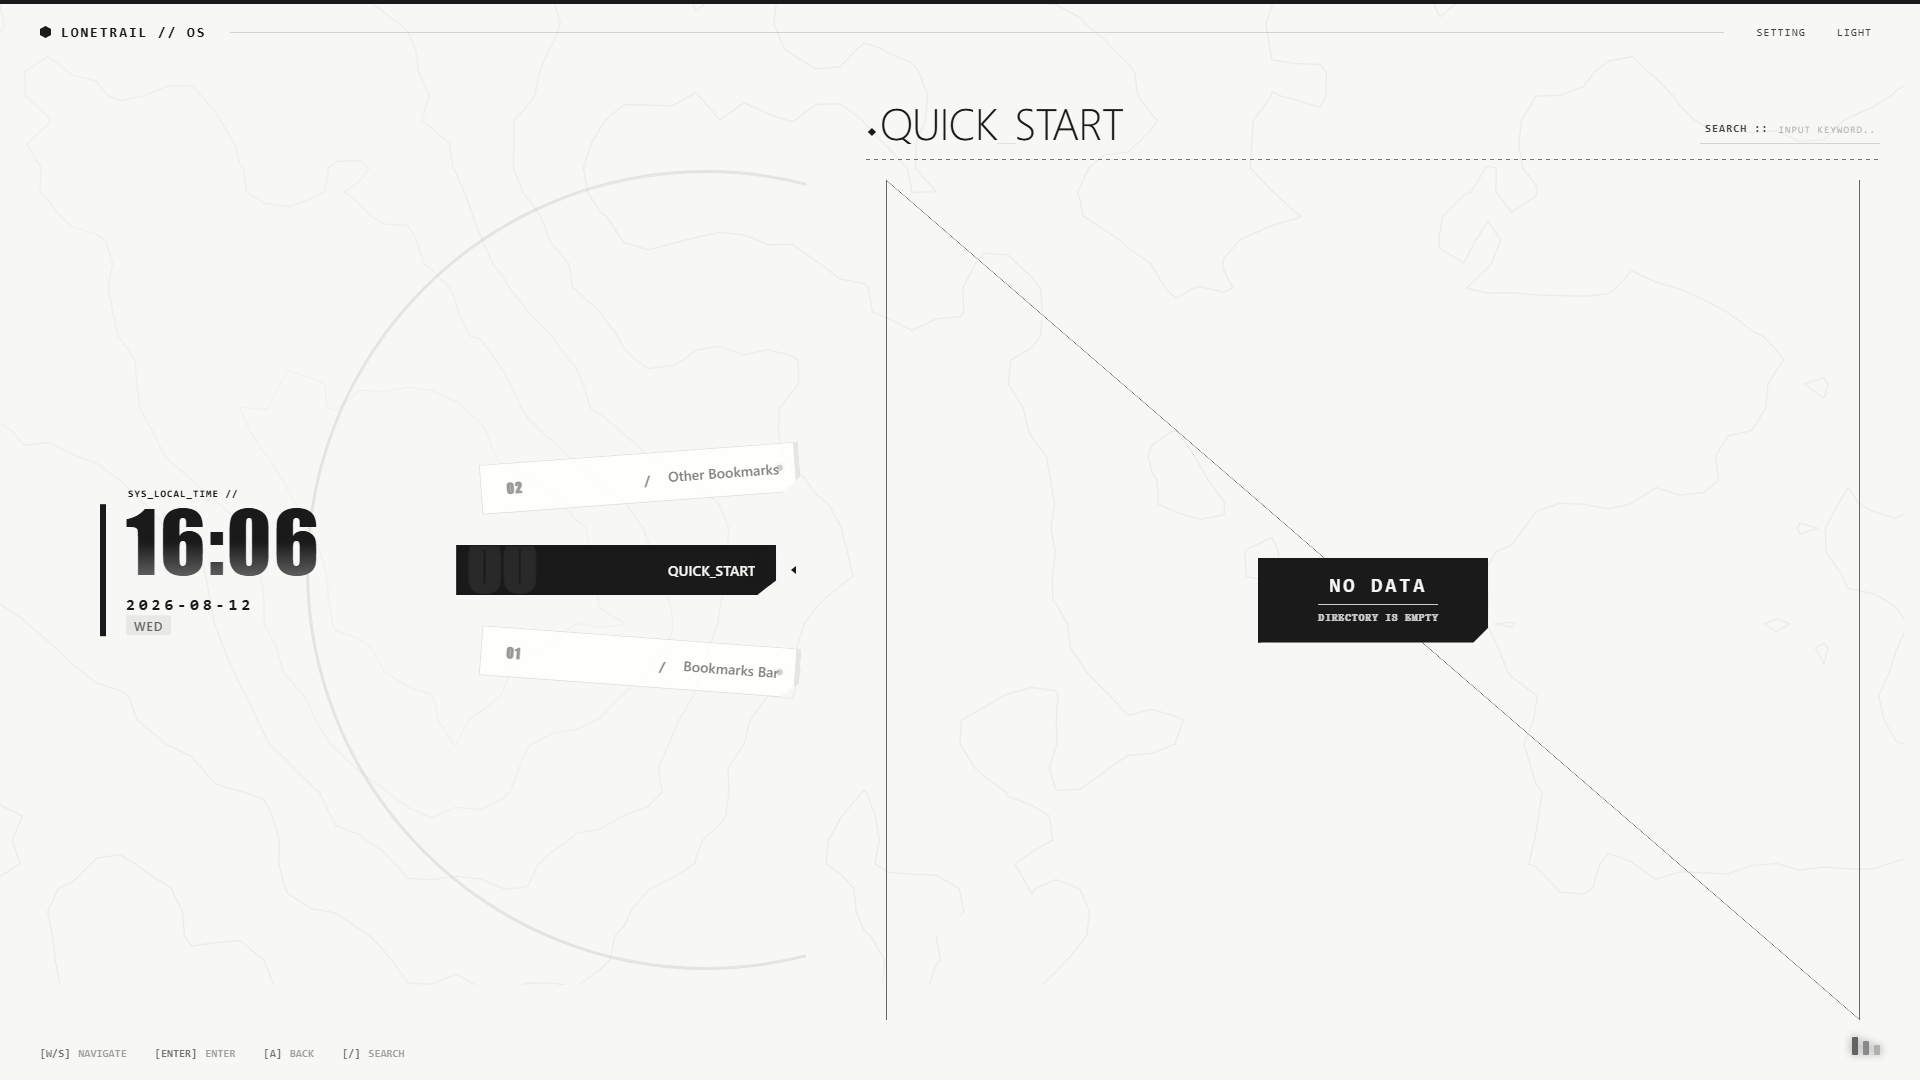
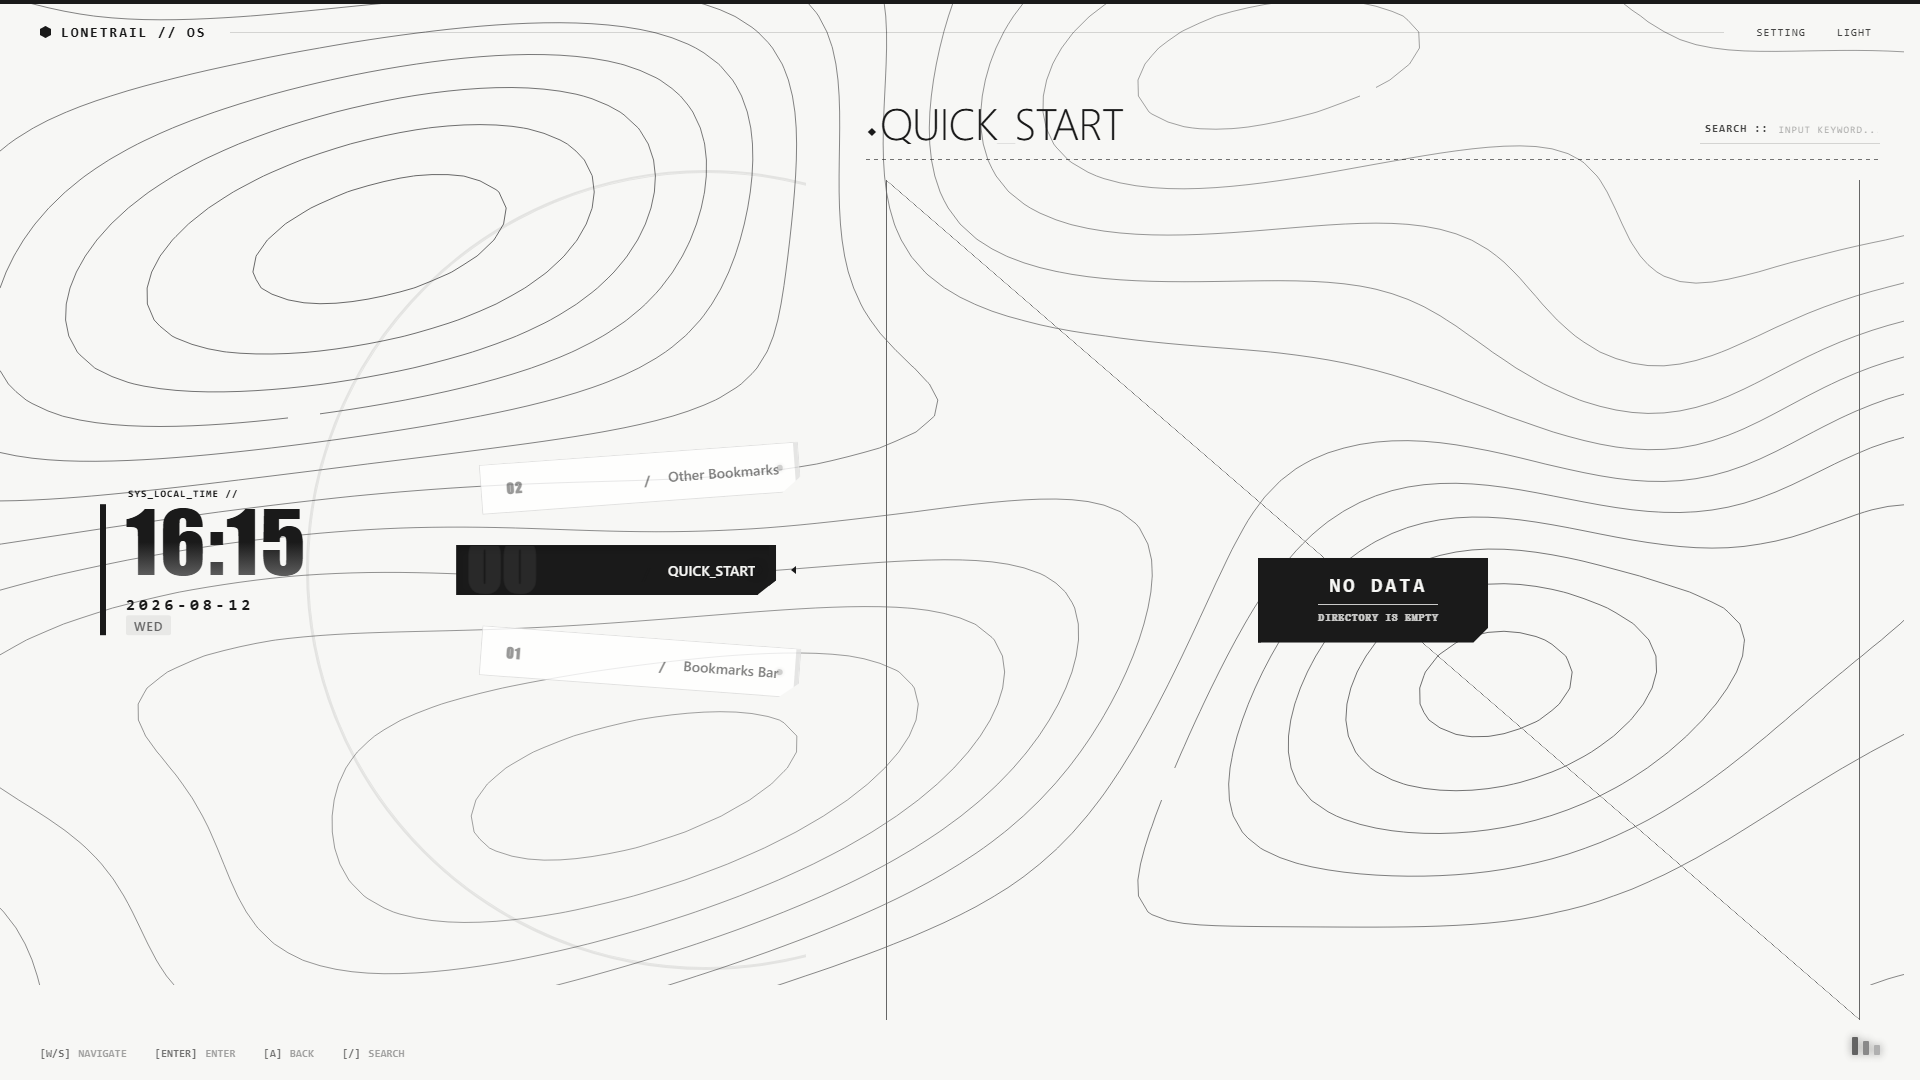
feat(bg): reference-style sine terrain with 3-4 spaced anchors on Canvas
- background.js light theme: height field = reference multi-frequency sines (seeded phases) + 3-4 anchor hills + edge falloff; anchors placed with min distance = 28% of min(w,h), allowed up to 10% off-screen, rejection sampling with circle fallback
- 12 contour levels ((i+0.5)/12), 16px grid, segment-by-segment Canvas strokes (no chaining), medium-gray lines from --text-sub (#666666), per-level alpha
- removed fBm/hash-noise/chaining; dark starfield untouched
- verified: 6.6% line pixels, gray lines, bg stays #F7F7F5; regenerate light screenshot

Changed region(s): [[0.0938, 0.4583, 0.1875, 0.55]]

diff --git a/LoneTrail-Tab/js/background.js b/LoneTrail-Tab/js/background.js
@@ -1,24 +1,26 @@
 /**
  * Background Module
- * - Light theme: terrain heightmap from multi-frequency value noise (fBm),
- *   contour lines extracted precisely with Marching Squares.
+ * - Light theme: topographic contour map. Height field = reference-style
+ *   multi-frequency sines + 3-4 random anchor hills (min-distance, may sit
+ *   slightly off-screen); contours extracted with Marching Squares and
+ *   stroked segment-by-segment on Canvas 2D.
  * - Dark theme: random starfield.
  */
 
 /** Heightmap sample spacing in px */
-const GRID_CELL = 24;
+const GRID_CELL = 16;
 
 /** Number of contour levels */
-const CONTOUR_LEVELS = 7;
+const CONTOUR_LEVELS = 12;
 
-/** fBm parameters */
-const OCTAVES = 4;
-const LACUNARITY = 2.2;
-const PERSISTENCE = 0.5;
-const BASE_FREQUENCY = 1 / 200;
-
-/** Endpoint matching tolerance when chaining segments (px) */
-const CHAIN_TOLERANCE = 1.5;
+/** Anchor parameters */
+const ANCHOR_MIN = 3;
+const ANCHOR_MAX = 4;
+const ANCHOR_MIN_DIST_RATIO = 0.28;   // min(w, h) * ratio
+const ANCHOR_OFFSCREEN = 0.10;        // allow 10% outside the screen
+const ANCHOR_SIGMA_MIN = 140;
+const ANCHOR_SIGMA_MAX = 280;
+const ANCHOR_PLACE_ATTEMPTS = 40;
 
 /**
  * Initializes the background SVG according to the current theme
@@ -39,8 +41,7 @@ export function initBackground() {
 }
 
 /**
- * Creates a terrain contour canvas: 3-4 anchor-defined height field
- * + procedural fBm noise, contours extracted with Marching Squares.
+ * Creates the terrain contour canvas (light theme)
  * @param {number} w - Viewport width
  * @param {number} h - Viewport height
  */
@@ -54,21 +55,22 @@ function createTerrainCanvas(w, h) {
 
     const ctx = canvas.getContext('2d');
     ctx.scale(dpr, dpr);
-    ctx.lineWidth = 1.5;
+    ctx.lineWidth = 1.0;
 
     const seed = Math.floor(Math.random() * 0xFFFFFFFF);
     const anchors = generateAnchors(w, h);
+    const phases = phaseOffsets(seed);
 
     const cols = Math.ceil(w / GRID_CELL) + 1;
     const rows = Math.ceil(h / GRID_CELL) + 1;
     const heightmap = new Float32Array(cols * rows);
 
-    // 1. Height field = anchor influence (peaks/valleys) + procedural fBm noise
+    // 1. Height field: reference-style sines + anchor hills + edge falloff
     let minH = Infinity;
     let maxH = -Infinity;
     for (let j = 0; j < rows; j++) {
         for (let i = 0; i < cols; i++) {
-            const hVal = terrainHeight(i * GRID_CELL, j * GRID_CELL, anchors, seed);
+            const hVal = terrainHeight(i * GRID_CELL, j * GRID_CELL, w, h, anchors, phases);
             heightmap[j * cols + i] = hVal;
             if (hVal < minH) minH = hVal;
             if (hVal > maxH) maxH = hVal;
@@ -76,23 +78,19 @@ function createTerrainCanvas(w, h) {
     }
     if (maxH - minH < 1e-6) return canvas;
 
-    // 2. Marching Squares isolines, stroked on Canvas 2D
-    const strokeStyle = resolveGridLineColor();
+    // 2. Marching Squares isolines, stroked segment-by-segment (reference style)
+    const strokeStyle = resolveContourColor();
     for (let levelIdx = 0; levelIdx < CONTOUR_LEVELS; levelIdx++) {
-        const level = minH + (levelIdx * (maxH - minH)) / (CONTOUR_LEVELS - 1);
+        const level = minH + ((levelIdx + 0.5) / CONTOUR_LEVELS) * (maxH - minH);
         const segments = marchingSquares(heightmap, cols, rows, level);
-        const polylines = chainSegments(segments, CHAIN_TOLERANCE);
 
-        ctx.globalAlpha = Math.min(1, 0.45 + levelIdx * 0.08);
+        ctx.globalAlpha = Math.min(1, 0.6 + levelIdx * 0.035);
         ctx.strokeStyle = strokeStyle;
         ctx.beginPath();
-        polylines.forEach((points) => {
-            points.forEach((p, idx) => {
-                if (idx > 0 && Math.hypot(p[0] - points[idx - 1][0], p[1] - points[idx - 1][1]) < 0.1) return;
-                if (idx === 0) ctx.moveTo(p[0], p[1]);
-                else ctx.lineTo(p[0], p[1]);
-            });
-        });
+        for (const seg of segments) {
+            ctx.moveTo(seg[0][0], seg[0][1]);
+            ctx.lineTo(seg[1][0], seg[1][1]);
+        }
         ctx.stroke();
     }
     ctx.globalAlpha = 1;
@@ -100,106 +98,117 @@ function createTerrainCanvas(w, h) {
     return canvas;
 }
 
-/** Generates 3-4 random anchor points (peaks/valleys) across the screen */
+/**
+ * Generates 3-4 random anchors. Anchors are placed with a minimum
+ * distance from each other and may sit slightly off-screen.
+ */
 function generateAnchors(w, h) {
-    const count = 3 + (Math.random() < 0.5 ? 1 : 0);
+    const count = ANCHOR_MIN + (Math.random() < 0.5 ? 1 : 0);
+    const minDist = Math.min(w, h) * ANCHOR_MIN_DIST_RATIO;
+    const lo = -ANCHOR_OFFSCREEN;
+    const hi = 1 + ANCHOR_OFFSCREEN;
     const anchors = [];
+
     for (let i = 0; i < count; i++) {
-        anchors.push({
-            x: w * (0.12 + Math.random() * 0.76),
-            y: h * (0.12 + Math.random() * 0.76),
-            strength: (Math.random() < 0.5 ? -1 : 1) * (0.55 + Math.random() * 0.45),
-            sigma: 140 + Math.random() * 140,
-        });
+        let placed = false;
+        for (let attempt = 0; attempt < ANCHOR_PLACE_ATTEMPTS; attempt++) {
+            const candidate = {
+                x: w * (lo + Math.random() * (hi - lo)),
+                y: h * (lo + Math.random() * (hi - lo)),
+                strength: (Math.random() < 0.5 ? -1 : 1) * (0.55 + Math.random() * 0.45),
+                sigma: ANCHOR_SIGMA_MIN + Math.random() * (ANCHOR_SIGMA_MAX - ANCHOR_SIGMA_MIN),
+            };
+            const ok = anchors.every((a) => (
+                Math.hypot(a.x - candidate.x, a.y - candidate.y) >= minDist
+            ));
+            if (ok) {
+                anchors.push(candidate);
+                placed = true;
+                break;
+            }
+        }
+
+        if (!placed) {
+            // Fallback: even angles on a circle around the screen center
+            const angle = (i / count) * Math.PI * 2 + Math.random() * 0.4;
+            anchors.push({
+                x: w / 2 + Math.cos(angle) * minDist * 1.3,
+                y: h / 2 + Math.sin(angle) * minDist * 1.3,
+                strength: (Math.random() < 0.5 ? -1 : 1) * (0.55 + Math.random() * 0.45),
+                sigma: ANCHOR_SIGMA_MIN + Math.random() * (ANCHOR_SIGMA_MAX - ANCHOR_SIGMA_MIN),
+            });
+        }
     }
+
     return anchors;
 }
 
 /**
- * Height at a point: sum of anchor gaussian fields + procedural fBm detail
+ * Height at a point: multi-frequency sines (reference-style, seeded phases)
+ * + anchor gaussian hills, scaled by a soft edge falloff.
  */
-function terrainHeight(x, y, anchors, seed) {
-    let h = 0;
+function terrainHeight(x, y, w, h, anchors, phases) {
+    const u = ((x / w) * 2 - 1) * 5;
+    const v = ((y / h) * 2 - 1) * 5;
+
+    const h1 = Math.sin(u * 0.35 + phases[0]) * Math.cos(v * 0.40 + phases[1]) * 0.6;
+    const h2 = Math.sin(u * 0.70 + v * 0.55 + phases[2]) * 0.4;
+    const h3 = Math.cos(u * 0.25 - v * 0.65 + phases[3]) * 0.5;
+    const h4 = Math.sin((u + v) * 1.2 + phases[4]) * 0.2;
+    let height = h1 + h2 + h3 + h4;
+
     for (let i = 0; i < anchors.length; i++) {
         const a = anchors[i];
         const dx = x - a.x;
         const dy = y - a.y;
-        h += a.strength * Math.exp(-(dx * dx + dy * dy) / (2 * a.sigma * a.sigma));
+        height += a.strength * Math.exp(-(dx * dx + dy * dy) / (2 * a.sigma * a.sigma));
     }
-    h += fbmValueNoise(x, y, seed) * 0.35;
-    return h;
+
+    const dist = Math.sqrt(u * u + v * v);
+    const edge = Math.max(0, 1 - ((dist / 5) ** 2) * 0.25);
+    return height * edge;
 }
 
-/** Resolves the CSS --grid-line color for canvas strokes */
-function resolveGridLineColor() {
-    const raw = getComputedStyle(document.documentElement).getPropertyValue('--grid-line').trim();
-    const m = raw.match(/rgba?\(([^)]+)\)/);
-    if (m) {
-        const parts = m[1].split(',').map((s) => parseFloat(s.trim()));
+/** Seeded PRNG (mulberry32) */
+function mulberry32(seed) {
+    let a = seed >>> 0;
+    return function () {
+        a |= 0;
+        a = (a + 0x6D2B79F5) | 0;
+        let t = Math.imul(a ^ (a >>> 15), 1 | a);
+        t = (t + Math.imul(t ^ (t >>> 7), 61 | t)) ^ t;
+        return ((t ^ (t >>> 14)) >>> 0) / 4294967296;
+    };
+}
+
+/** Draws 5 seeded phase offsets (radians) for the sine base */
+function phaseOffsets(seed) {
+    const rand = mulberry32(seed);
+    const phases = [];
+    for (let i = 0; i < 5; i++) {
+        phases.push(rand() * Math.PI * 2);
+    }
+    return phases;
+}
+
+/** Resolves the CSS --text-sub color for canvas contour strokes */
+function resolveContourColor() {
+    const raw = getComputedStyle(document.documentElement).getPropertyValue('--text-sub').trim();
+    const hex = raw.match(/#([0-9a-fA-F]{3}|[0-9a-fA-F]{6})/);
+    if (hex) {
+        let value = hex[1];
+        if (value.length === 3) value = value.split('').map((c) => c + c).join('');
+        return `#${value}`;
+    }
+    const rgba = raw.match(/rgba?\(([^)]+)\)/);
+    if (rgba) {
+        const parts = rgba[1].split(',').map((s) => parseFloat(s.trim()));
         if (parts.length >= 3) {
             const alpha = parts.length === 4 ? parts[3] : 1;
             return `rgba(${parts[0]}, ${parts[1]}, ${parts[2]}, ${alpha})`;
         }
     }
-    return 'rgba(0, 0, 0, 0.05)';
-}
-
-/**
- * fBm: sum of value-noise octaves, normalized to [0, 1]
- * @param {number} x - world x (px)
- * @param {number} y - world y (px)
- * @param {number} seed - per-render random seed
- */
-function fbmValueNoise(x, y, seed) {
-    let total = 0;
-    let amplitude = 1;
-    let maxValue = 0;
-    let frequency = BASE_FREQUENCY;
-
-    for (let octave = 0; octave < OCTAVES; octave++) {
-        total += valueNoise(x * frequency, y * frequency, seed) * amplitude;
-        maxValue += amplitude;
-        amplitude *= PERSISTENCE;
-        frequency *= LACUNARITY;
-    }
-
-    return total / maxValue;
-}
-
-/**
- * Value noise: bilinear + smoothstep interpolation over a hashed lattice
- */
-function valueNoise(x, y, seed) {
-    const x0 = Math.floor(x);
-    const y0 = Math.floor(y);
-    const fx = smoothstep(x - x0);
-    const fy = smoothstep(y - y0);
-
-    const v00 = hashNoise(x0, y0, seed);
-    const v10 = hashNoise(x0 + 1, y0, seed);
-    const v01 = hashNoise(x0, y0 + 1, seed);
-    const v11 = hashNoise(x0 + 1, y0 + 1, seed);
-
-    const a = v00 + (v10 - v00) * fx;
-    const b = v01 + (v11 - v01) * fx;
-    return a + (b - a) * fy;
-}
-
-/** Smoothstep easing for lattice interpolation */
-function smoothstep(t) {
-    return t * t * (3 - 2 * t);
-}
-
-/**
- * Deterministic pseudo-random value in [0, 1] for a lattice point.
- * Same (x, y, seed) always yields the same value.
- */
-function hashNoise(x, y, seed) {
-    let h = Math.imul(x | 0, 374761393) + Math.imul(y | 0, 668265263) + (seed | 0);
-    h = (h ^ (h >>> 13)) | 0;
-    h = Math.imul(h, 1274126177);
-    h = (h ^ (h >>> 16)) >>> 0;
-    return h / 4294967296;
+    return '#666666';
 }
 
 /**
@@ -259,53 +268,6 @@ function marchingSquares(heightmap, cols, rows, level) {
     }
 
     return segments;
-}
-
-/**
- * Chains line segments into polylines by matching endpoints
- * @returns {Array<Array<[number, number]>>}
- */
-function chainSegments(segments, tolerance) {
-    const lines = [];
-    const used = new Array(segments.length).fill(false);
-    const dist = (a, b) => Math.hypot(a[0] - b[0], a[1] - b[1]);
-
-    for (let i = 0; i < segments.length; i++) {
-        if (used[i]) continue;
-        used[i] = true;
-        const poly = [segments[i][0], segments[i][1]];
-
-        let grew = true;
-        while (grew) {
-            grew = false;
-            for (let j = 0; j < segments.length; j++) {
-                if (used[j]) continue;
-                const a = segments[j][0];
-                const b = segments[j][1];
-                if (dist(a, poly[0]) <= tolerance) {
-                    poly.unshift(b);
-                    used[j] = true;
-                    grew = true;
-                } else if (dist(b, poly[0]) <= tolerance) {
-                    poly.unshift(a);
-                    used[j] = true;
-                    grew = true;
-                } else if (dist(a, poly[poly.length - 1]) <= tolerance) {
-                    poly.push(b);
-                    used[j] = true;
-                    grew = true;
-                } else if (dist(b, poly[poly.length - 1]) <= tolerance) {
-                    poly.push(a);
-                    used[j] = true;
-                    grew = true;
-                }
-            }
-        }
-
-        lines.push(poly);
-    }
-
-    return lines;
 }
 
 /**
